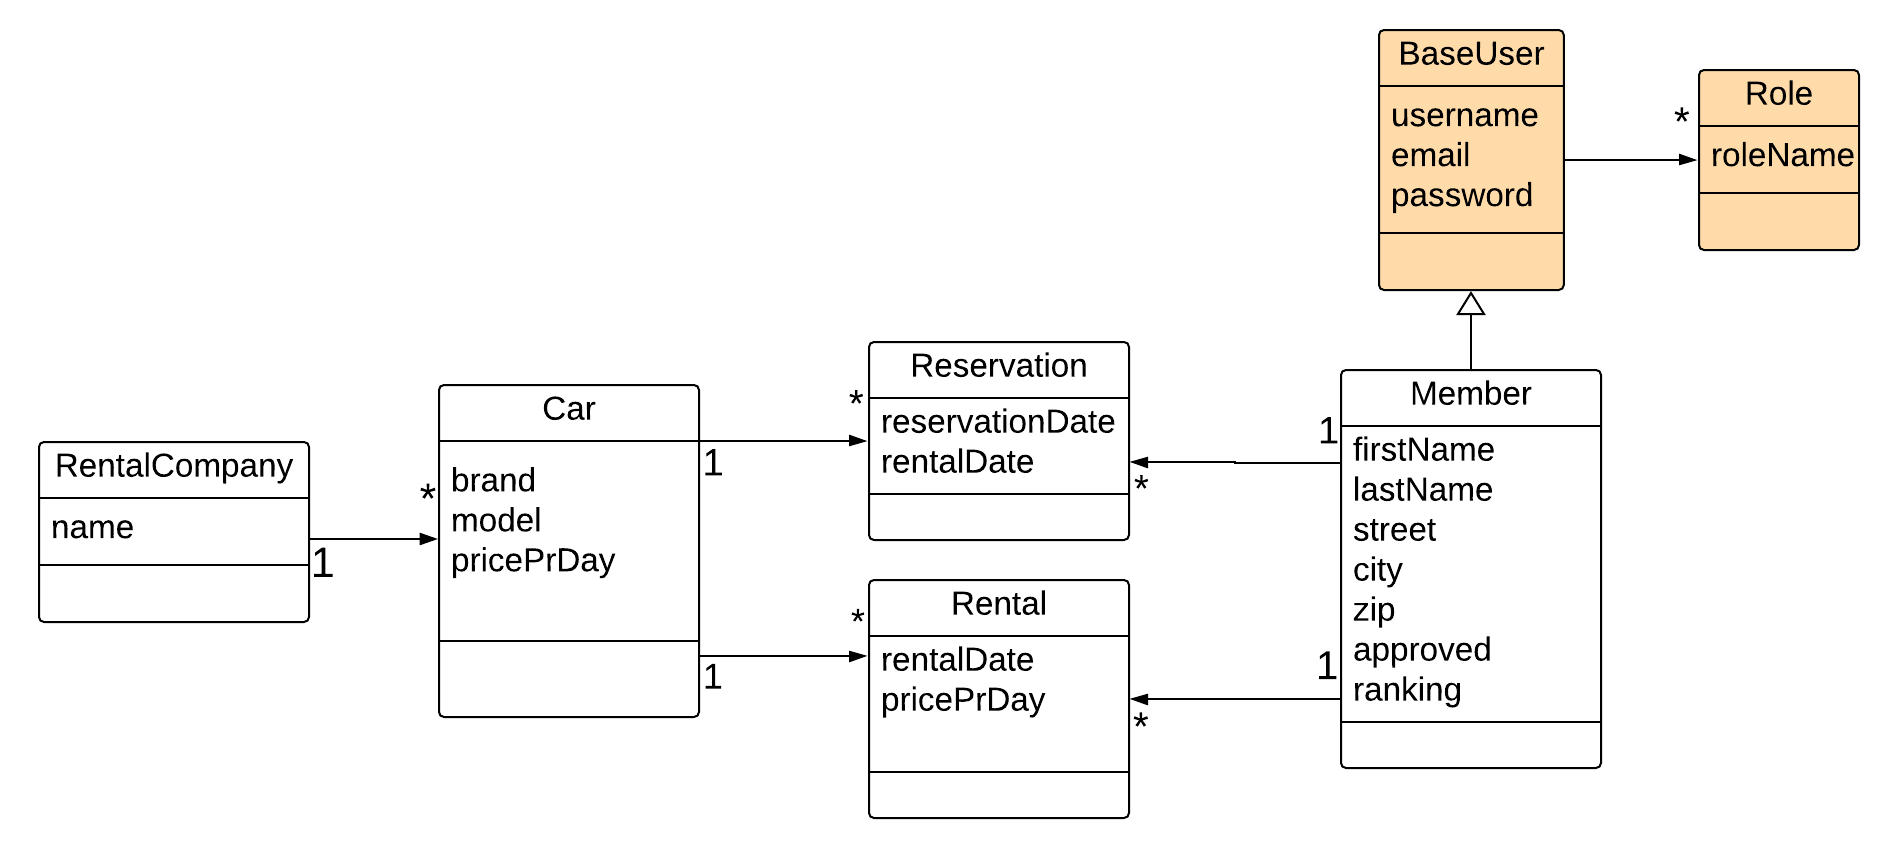
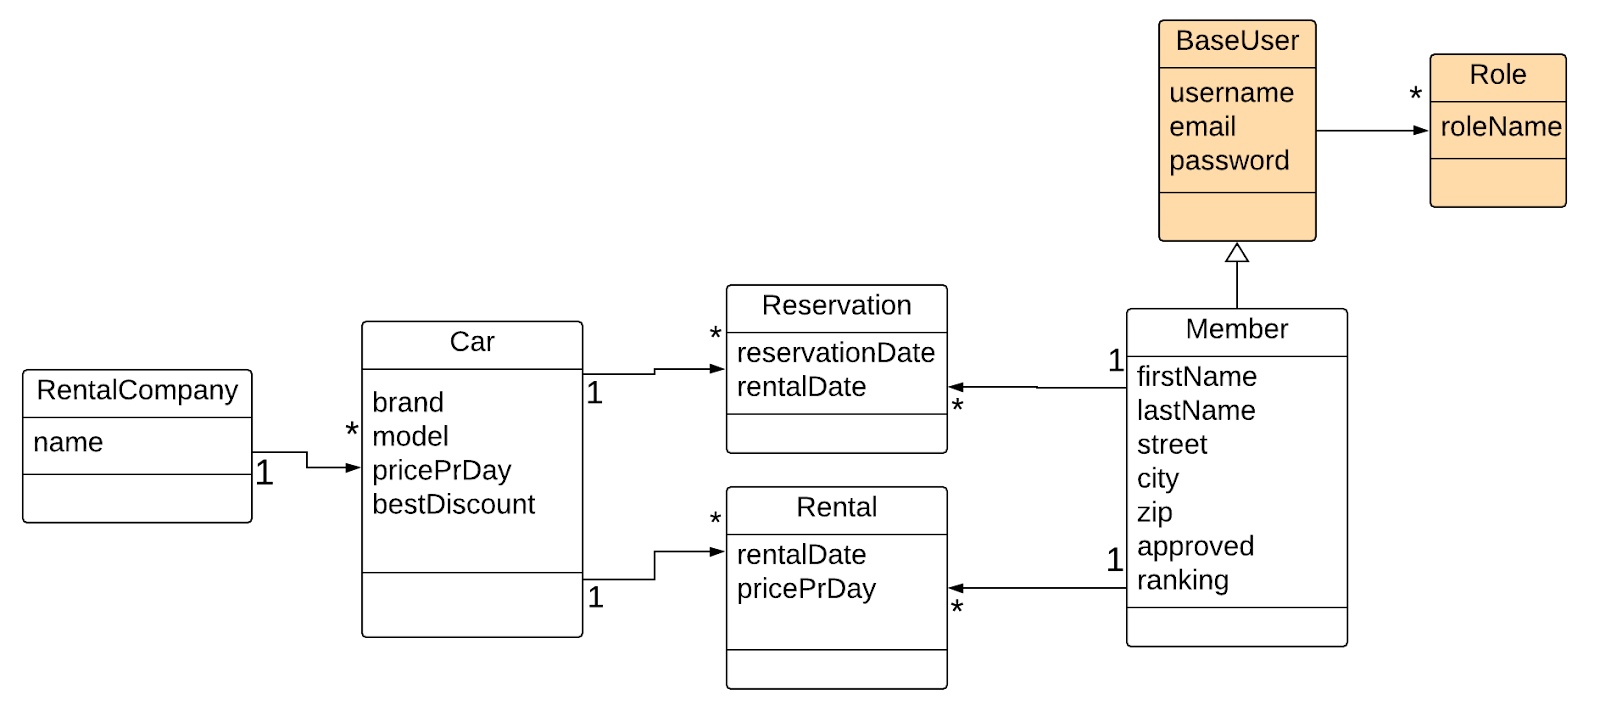
Write up this week's commits

diff --git a/README.md b/README.md
@@ -1,8 +1,43 @@
 # Cars 'R' Us
 
+Here is a short highlight of this week's commits.
+
+### Important Changes
+- Car entity has received new attribute `bestDiscountPercentage`
+- Created MVC layers for Car (API controller and service classes plus response and request DTOs)
+- Created MVC layers for Member (API controller and service classes plus response and request DTOs)
+- API controllers have been annotated with comments, indicating how access control is supposed to work later on
+- Tests have been created for the Car service. One with Mockito mocking the repository layer and one with the repository
+  layer using H2.
+- Tests have been created for the Car controller, with H2 as the database for the repository layer.
+
+### Other Changes
+- Reformatted code and imports
+- Replaced the generic `Client400xException` with more specific `CarNotFoundException` and `MemberNotFoundException`
+- Changed the way `ValidationHandler` renders Exceptions
+- Maven profiles have been created. They are set up to control the Spring Boot profile which makes 
+  switching between different `application.properties` files super easy
+
+### Continuous Deployment 
+- Created a Dockerfile to build and run the application.
+- Created a GitHub Action. This Action builds a Docker image from the Dockerfile, then the image is uploaded to my
+  Docker Hub. My Azure App Service then downloads this image and deploys it. The reason for doing it this way instead
+  of directly building a .jar and deploying it to an Azure App Service is because I'm stubborn and want to use Java 17,
+  but this runtime is not yet supported directly by Azure App Services.
+
+### Earlier Changes
+
+<details>
+  <summary>
+    Week 1 [970a88]
+    <a href="https://github.com/simongredal/cars-r-us/tree/970a88">(browse repository at this point in history)</a>
+    or <a href="https://github.com/simongredal/cars-r-us/compare/970a88...main">(compare with current)</a>
+  </summary>
+  <article>
+
 ![image1.png](image1.png)
 
-## Implemented Entity classes
+### Implemented Entity classes
 with all attributes from domain model, and foreign keys
 associations using @OneToMany and @ManyToOne
 
@@ -11,7 +46,7 @@ associations using @OneToMany and @ManyToOne
 - [x] Reservation
 - [x] Rental
 
-## Implemented Repository classes
+### Implemented Repository classes
 
 most of these have only a few extra methods
 
@@ -20,19 +55,22 @@ most of these have only a few extra methods
 - [x] ReservationRepository
 - [x] RentalRepository
 
-## Implemented Repository Tests
+### Implemented Repository Tests
 
 below each class is listed the methods that have tests written
 
 - [ ] MemberRepositoryTest
-    - [x] count()
+  - [x] count()
 - [ ] CarRepositoryTest
-    - [x] count()
+  - [x] count()
 - [ ] ReservationRepositoryTest
 - [ ] RentalRepositoryTest
 
-## CI / CD
+### CI / CD
 
 Der er lavet en fil, .github/workflows/build-and-test.yaml, som aktiverer en github action Denne github action består
-essentielt bare af at køre `./mvnw test` 
+essentielt bare af at køre `./mvnw test`
+
+  </article>
+</details>
 
